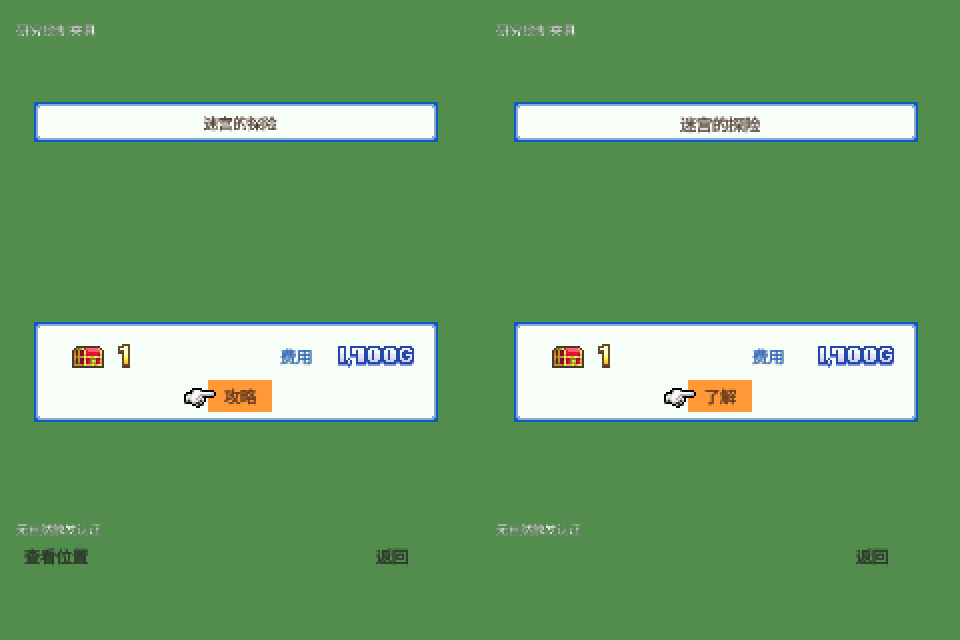
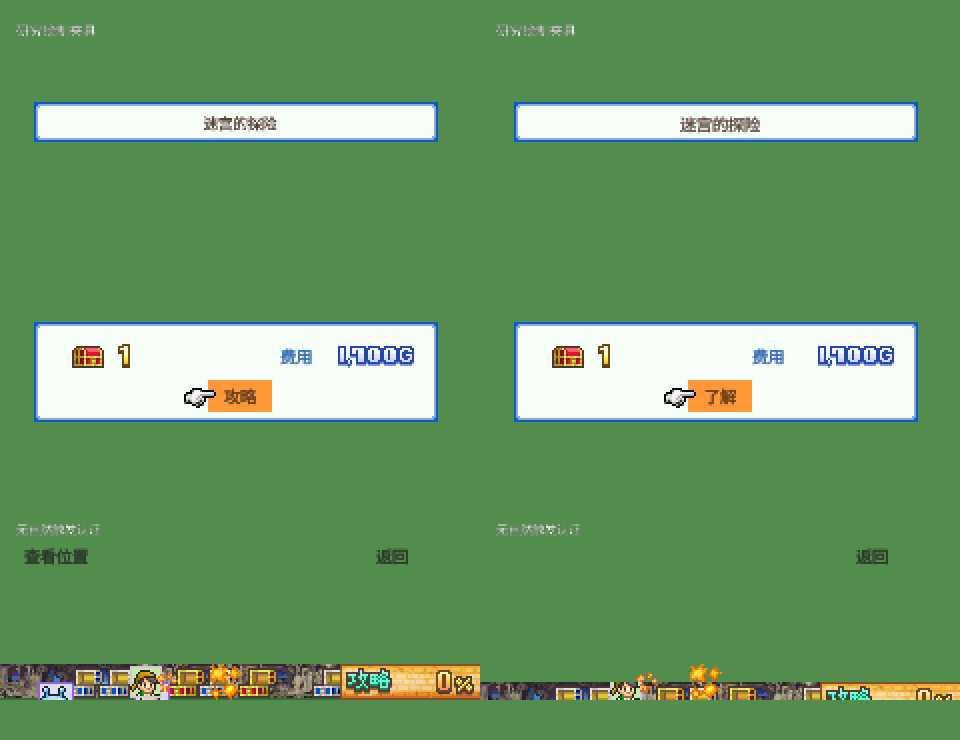
research: connect dungeon charge effects and footer examples

diff --git a/research/dungeon_village_1/prototype/src/startup_view.cpp b/research/dungeon_village_1/prototype/src/startup_view.cpp
@@ -37,6 +37,7 @@
 #include "dungeon_village_prototype/steam_main_menu_skin.hpp"
 #include "dungeon_village_prototype/steam_information_skin.hpp"
 #include "dungeon_village_prototype/steam_monster_skin.hpp"
+#include "dungeon_village_prototype/steam_dungeon_footer_skin.hpp"
 #include "dungeon_village_prototype/startup_world_tax.hpp"
 #include "dungeon_village_prototype/startup_world_village_activity.hpp"
 #include "dungeon_village_prototype/startup_world_visuals.hpp"
@@ -1363,6 +1364,63 @@ void draw_human_overview(const SteamHumanOverviewPlan &plan,SourceSprites &sprit
     else if(plan.soft_labels[0]==7)font.text("详细",18,272);
     if(plan.soft_labels[1]==2)font.text("返回",188,272);
 }
+// 探索底栏独立消费普通clip栈与临时头像ImageClip；后者结束时恢复外层，
+// 只模拟本计划正常未翻转图元，不认证原后端共享ImageClip/GPU越界行为。
+void draw_dungeon_footer(const SteamDungeonFooterPlan &plan,SourceSprites &sprites,Vector2 origin) {
+    std::vector<std::array<int,4>> clips;
+    const auto intersect=[](std::array<int,4> a,std::array<int,4> b) {
+        const int x=std::max(a[0],b[0]),y=std::max(a[1],b[1]);
+        return std::array<int,4>{x,y,std::max(0,std::min(a[0]+a[2],b[0]+b[2])-x),
+            std::max(0,std::min(a[1]+a[3],b[1]+b[3])-y)};
+    };
+    const auto apply=[&](std::optional<std::array<int,4>> image_clip={}) {
+        EndScissorMode();
+        auto r=image_clip;
+        if(!clips.empty())r=r?intersect(clips.back(),*r):clips.back();
+        if(r)BeginScissorMode(int(origin.x)+(*r)[0],int(origin.y)+(*r)[1],(*r)[2],(*r)[3]);
+    };
+    for(const auto &op:plan.operations)std::visit([&](const auto &v) {
+        using T=std::decay_t<decltype(v)>;
+        if constexpr(std::is_same_v<T,SteamHumanClip>) {
+            if(v.kind==SteamHumanClipKind::push_intersect)
+                clips.push_back(clips.empty()?v.rectangle:intersect(clips.back(),v.rectangle));
+            else {
+                if(clips.empty())throw std::runtime_error("探索底栏裁剪下溢");
+                clips.pop_back();
+            }
+            apply();
+        } else if constexpr(std::is_same_v<T,StartupSkinDraw>) {
+            const auto resource=steam_dungeon_footer_resource(v.image);
+            if(v.package!=StartupSkinPackage::common||!resource||resource->sprite!=v.sprite)
+                throw std::runtime_error("探索底栏素材身份拒绝");
+            if(v.image==97&&v.sprite==27) {
+                // 原宝箱显式替图97；SEB记录自身仍引用6，不能以同号身份检查丢掉它。
+                sprites.draw("treasure00.seb",v.frame,{origin.x+v.offset[0],origin.y+v.offset[1]},
+                    WHITE,SourceSprites::Binding::common,1,97);
+            } else sprites.published_sprite(v.image,resource->published_image,resource->published_sprite,
+                v.offset,v.frame,v.sprite<0?std::optional<std::array<int,4>>{v.crop}:std::nullopt,origin);
+        } else if constexpr(std::is_same_v<T,StartupSkinRect>) {
+            const auto &r=v.rect;const Color color{static_cast<unsigned char>(v.rgb[0]),
+                static_cast<unsigned char>(v.rgb[1]),static_cast<unsigned char>(v.rgb[2]),255};
+            if(v.outline)DrawRectangleLines(int(origin.x)+r[0],int(origin.y)+r[1],r[2],r[3],color);
+            else DrawRectangle(int(origin.x)+r[0],int(origin.y)+r[1],r[2],r[3],color);
+        } else if constexpr(std::is_same_v<T,SteamHumanPortrait>) {
+            if(!v.image_clip||!v.clip||v.actor.weapon||v.actor.shadow)
+                throw std::runtime_error("探索头像正常裁图前提拒绝");
+            apply(v.clip);
+            sprites.actor(false,v.actor.body.sprite,v.actor.body.image,v.actor.body.frame,
+                {origin.x+v.position[0],origin.y+v.position[1]});
+            apply();
+        } else if constexpr(std::is_same_v<T,SteamMonsterBody>) {
+            sprites.actor(true,v.sprite,v.image,v.frame,{origin.x+v.position[0],origin.y+v.position[1]});
+        } else if constexpr(std::is_same_v<T,SteamFacilityNumber>) {
+            const auto digits=steam_facility_number_draws(v,8);
+            if(!digits)throw std::runtime_error("探索百分比数字拒绝");
+            for(const auto &digit:*digits)sprites.facility_image(digit,origin);
+        }
+    },op);
+    if(!clips.empty())throw std::runtime_error("探索底栏裁剪未释放");
+}
 // 两种设施演出共用有序执行器，保留裁剪栈；每个variant恰消费一次。
 template<class Plan> void draw_facility_ceremony(const Plan &plan,SourceSprites &sprites,const ChineseFont &font,
     Vector2 origin=human_overview_origin,bool include_soft_labels=true) {
@@ -1613,6 +1671,39 @@ std::optional<SteamMonsterSkinPlan> monster_notice_example(bool boss,const Chine
         state=std::move(*next.candidate);
     }
     return window_monster_notice_plan(state,page.id,font);
+}
+std::optional<SteamDungeonFooterPlan> dungeon_footer_example(bool entering) {
+    StartupSession initial;
+    for(int n=0;n<420;++n)if(initial.update()!=StartupError::none)return {};
+    StartupWorldRuntimeSession world(initial.state(),ref::WorldRandomStream::from_java_seed(1));
+    auto s=world.state();
+    const auto made=ref::prepare_world_task_creation(startup_world_runtime_factory(s),0);
+    if(!made.candidate||!made.candidate->created_task||
+       !write_startup_world_runtime_factory(s,made.candidate->state))return {};
+    s.active_task=*made.candidate->created_task;
+    const auto facility=s.tasks.at(*s.active_task).facility;
+    if(!facility||s.scene.world.world.ai.human_order.empty())return {};
+    auto &progress=s.dungeon_facilities.at(*facility);
+    // 明确的显示调用点：保留真实工厂初建g/h，仅指定挑战年龄及人物撤退姿态。
+    // 初建h=0时显示0%，不为示例伪造已开始探索或补一个演示分母。
+    for(auto &c:progress.challenges) {
+        c[2]=c[1]==1?1:3;c[3]=25;
+    }
+    s.scene.world.world.facilities.at(*facility).occupants=s.scene.world.world.ai.human_order;
+    for(const auto id:s.scene.world.world.ai.human_order) {
+        const auto a=s.dungeon_actors.find(id);if(a==s.dungeon_actors.end())return {};
+        a->second.percent=50;a->second.retreat_state=entering?1:0;a->second.retreat_updates=12;
+    }
+    s.scene.world.updates=entering?9:18;
+    s.scene.world.floating_notes={{3,90,231},{4,120,231}};
+    s.scripts.executing_page.reset();s.scripts.pages.front().lifecycle=3;
+    StartupPresentationRequest request;request.ordinal=1;request.mode=StartupPresentationMode::full_redraw;
+    const auto pages=startup_world_presentation_pages(s,request.mode);if(!pages)return {};
+    request.expected_pages=*pages;
+    const auto presented=prepare_startup_world_presentation(s,request);
+    if(!presented.candidate||!presented.plan)return {};
+    return steam_dungeon_footer_skin(*presented.candidate,s.scripts.pages.front().id,*presented.plan,
+        {0,0,240,240},0,false);
 }
 std::optional<SteamMonsterSkinPlan> monster_introduction_example(bool early,const ChineseFont &font) {
     StartupSession startup;StartupWorldRuntimeSession world(startup.state(),ref::WorldRandomStream{});
@@ -3033,6 +3124,7 @@ int run_startup_window(const std::filesystem::path &assets, const std::filesyste
     const bool magic_fixture=inspect_page.rfind("magic-pot-",0)==0;
     const bool roster_fixture=inspect_page=="task-roster"||inspect_page=="task-extra"||inspect_page=="task-extra-stats"||inspect_page=="task-departure"||inspect_page=="task-departing";
     const bool info_fixture=inspect_page=="task-map-info"||inspect_page=="task-info";
+    const bool footer_fixture=inspect_page=="dungeon-footer"||inspect_page=="dungeon-footer-entry";
     const bool result_fixture=inspect_page=="task-battle-result"||inspect_page=="task-reward-result";
     const bool victory_fixture=inspect_page=="task-victory"||inspect_page=="task-victory-reputation";
     const bool deadline_fixture=inspect_page=="task-deadline"||inspect_page=="task-deadline-battle"||inspect_page=="task-deadline-continue";
@@ -3058,7 +3150,7 @@ int run_startup_window(const std::filesystem::path &assets, const std::filesyste
         inspect_page=="commerce-shop-preview"||inspect_page=="commerce-plant-preview";
     const bool gift_claim_fixture=inspect_page=="gift-facility"||inspect_page=="gift-profession"||inspect_page=="gift-equipment"||inspect_page=="gift-item";
     const bool award_result_fixture=inspect_page=="award-giving"||inspect_page=="award-lift"||inspect_page=="award-celebration"||inspect_page=="award-reward";
-    const bool task_fixture=info_fixture||result_fixture||victory_fixture||deadline_fixture||roster_fixture||inspect_page=="task-selection"||inspect_page=="task-offer"||inspect_page=="task-recruitment";
+    const bool task_fixture=footer_fixture||info_fixture||result_fixture||victory_fixture||deadline_fixture||roster_fixture||inspect_page=="task-selection"||inspect_page=="task-offer"||inspect_page=="task-recruitment";
     const bool management_fixture=inspect_page.rfind("village-",0)==0||inspect_page.rfind("town-",0)==0;
     const bool reputation_fixture=inspect_page=="facility-reputation"||inspect_page=="facility-reputation-result";
     std::string reputation_glyphs;
@@ -3126,8 +3218,11 @@ int run_startup_window(const std::filesystem::path &assets, const std::filesyste
     }
     ChineseFont font(font_path,reputation_glyphs);
     if(magic_fixture||task_fixture||residence_fixture||award_fixture||tax_fixture||monster_fixture||monster_detail_fixture||monster_notice_fixture||effort_fixture||award_result_fixture||mastery_fixture||gift_claim_fixture||clear_fixture||new_game_fixture||config_fixture||commerce_fixture||commerce_result_fixture||commerce_facility_fixture||commerce_preview_fixture||facility_special_fixture||build_menu_fixture) {
-        std::variant<SteamMagicPotPlan,SteamTaskSelectionPlan,SteamTaskRosterPlan,SteamTaskResultPlan,SteamTaskVictoryPlan,SteamTaskDeadlinePlan,SteamHumanOverviewPlan,SteamTownProgressPlan,SteamNewGamePlan,SteamConfigSkinPlan,SteamCommerceSkinPlan,SteamFacilityDetailSkinPlan,SteamInformationSkinPlan,SteamMonsterSkinPlan,SteamBuildMenuSkinPlan> plan;
-        if(build_menu_fixture) {
+        std::variant<SteamMagicPotPlan,SteamTaskSelectionPlan,SteamTaskRosterPlan,SteamTaskResultPlan,SteamTaskVictoryPlan,SteamTaskDeadlinePlan,SteamHumanOverviewPlan,SteamTownProgressPlan,SteamNewGamePlan,SteamConfigSkinPlan,SteamCommerceSkinPlan,SteamFacilityDetailSkinPlan,SteamInformationSkinPlan,SteamMonsterSkinPlan,SteamBuildMenuSkinPlan,SteamDungeonFooterPlan> plan;
+        if(footer_fixture) {
+            const auto value=dungeon_footer_example(inspect_page=="dungeon-footer-entry");
+            if(!value)throw std::runtime_error("Dungeon footer example rejected");plan=*value;
+        } else if(build_menu_fixture) {
             const auto value=build_menu_example(inspect_page,font);
             if(!value)throw std::runtime_error("Build menu example rejected");plan=*value;
         } else if(monster_notice_fixture) {
@@ -3215,9 +3310,10 @@ int run_startup_window(const std::filesystem::path &assets, const std::filesyste
             font.text("研究绘制夹具",8,10,WHITE,10);std::visit([&](const auto &value){
                 if constexpr(std::is_same_v<std::decay_t<decltype(value)>,SteamFacilityDetailSkinPlan>)draw_facility_detail(value,sprites,font);
                 else if constexpr(std::is_same_v<std::decay_t<decltype(value)>,SteamInformationSkinPlan>)draw_tax_information(value,sprites,font);
+                else if constexpr(std::is_same_v<std::decay_t<decltype(value)>,SteamDungeonFooterPlan>)draw_dungeon_footer(value,sprites,human_overview_origin);
                 else draw_facility_ceremony(value,sprites,font,info_fixture?Vector2{0,0}:human_overview_origin);
             },plan);
-            font.text("无自然触发认证",8,(new_game_fixture||build_menu_fixture)?300:260,WHITE,9);EndTextureMode();BeginDrawing();ClearBackground(BLACK);
+            font.text("无自然触发认证",8,(new_game_fixture||build_menu_fixture||footer_fixture)?300:260,WHITE,9);EndTextureMode();BeginDrawing();ClearBackground(BLACK);
             DrawTexturePro(canvas.value.texture,{0,0,width,-height},{0,0,width*scale,height*scale},{0,0},0,WHITE);
             EndDrawing();++count;
             if(count==frames&&screenshot) {

diff --git a/research/dungeon_village_1/prototype/tests/startup_world_runtime_tasks_test.cpp b/research/dungeon_village_1/prototype/tests/startup_world_runtime_tasks_test.cpp
@@ -380,6 +380,70 @@ void crew_item_reward_writeback() {
               missing.catalog.at({0, 0}).inventory == before &&
               missing.item_rewards == s.item_rewards && missing.scene.random.draws() == draws,
           "crew callback missing item mirror rolls back reward, notices and random");
+
+    // 真实crew先让单人领队前进10：40→50%，对应原横坐标88；不是自然探索进度证据。
+    auto charge = s;
+    charge.active_task = task;
+    charge.dungeon_facilities.at(facility).extent = 100;
+    charge.dungeon_facilities.at(facility).updates = 25;
+    charge.dungeon_facilities.at(facility).challenges = {{0, 1, 0, 0, 0, 2}};
+    charge.dungeon_actors.at(actor_id).progress = 40;
+    charge.dungeon_actors.at(actor_id).endurance = 3;
+    charge.scene.world.floating_notes = {{7, 42, 231}};
+    const auto charge_before = persistence_detail::encode_state(charge);
+    const auto charged = prepare_startup_world_runtime_dungeon_crew(charge, facility);
+    check(charged && charged->scene.world.floating_notes ==
+                         std::vector<std::vector<int>>{{7, 42, 231}, {0, 88, 231}} &&
+              charged->dungeon_labels.size() == charge.dungeon_labels.size() + 1 &&
+              charged->dungeon_labels.back().kind == ref::DungeonCrewRequestKind::progress_label231 &&
+              charged->dungeon_labels.back().first == 88 &&
+              charged->dungeon_actors.at(actor_id).endurance == 2 &&
+              charged->dungeon_facilities.at(facility).challenges.front()[5] == 1 &&
+              charged->scene.random.draws() == draws &&
+              persistence_detail::encode_state(charge) == charge_before,
+          "actual crew writes age0 aW and one observation output after depletion, preserving old notes and random");
+    auto quiet = charge;
+    quiet.dungeon_facilities.at(facility).updates = 26;
+    const auto uncharged = prepare_startup_world_runtime_dungeon_crew(quiet, facility);
+    check(uncharged && uncharged->scene.world.floating_notes == quiet.scene.world.floating_notes &&
+              uncharged->dungeon_labels.size() == quiet.dungeon_labels.size(),
+          "non-depletion crew invocation neither replays old observation outputs nor appends aW");
+    auto outer = charge;
+    outer.dungeon_facilities.at(facility).updates = 24;
+    const auto through_facility = ref::prepare_owned_world_runtime_domain(
+        outer, {ref::WorldScheduleStage::facility, facility, {}}, {}, startup_world_runtime_adapter());
+    check(through_facility && through_facility->state.scene.world.floating_notes ==
+                                 std::vector<std::vector<int>>{{7, 42, 231}, {0, 88, 231}} &&
+              through_facility->state.dungeon_facilities.at(facility).updates == 25 &&
+              through_facility->state.dungeon_labels.size() == outer.dungeon_labels.size() + 1,
+          "actual outer facility callback preserves new aW through projection/writeback without aging it twice");
+
+    // 复用空人物新局隔离共同前段：旧年龄7先退休，新提示下一轮才从0推进至1。
+    auto schedule = test_support::world_fixture().scene.world;
+    schedule.floating_notes = charged->scene.world.floating_notes;
+    const auto keep = [](const ref::WorldScheduleState &current, const ref::WorldScheduleCall &,
+                         const ref::CombatInfluenceCandidate &) -> std::optional<ref::WorldScheduleStep> {
+        return ref::WorldScheduleStep{current};
+    };
+    for (int age = 1; age <= 8; ++age) {
+        const auto advanced = ref::prepare_world_schedule(schedule, {}, keep);
+        check(advanced.candidate.has_value(), "actual shared prefix admits the isolated effect-age fixture");
+        schedule = advanced.candidate->state;
+        check(schedule.floating_notes == (age < 8
+                  ? std::vector<std::vector<int>>{{age, 88, 231}}
+                  : std::vector<std::vector<int>>{}),
+              "shared prefix advances source231 once per admitted update and retires at8");
+    }
+
+    // 反向挑战次序先产231，再让真实道具奖励拒绝非法累计数；整个Owner候选必须丢弃。
+    auto late = charge;
+    late.dungeon_facilities.at(facility).challenges.insert(
+        late.dungeon_facilities.at(facility).challenges.begin(), {0, 0, 0, 0, 0, 0});
+    late.item_rewards = std::numeric_limits<int>::max();
+    const auto late_before = persistence_detail::encode_state(late);
+    check(!prepare_startup_world_runtime_dungeon_crew(late, facility) &&
+              persistence_detail::encode_state(late) == late_before,
+          "late invalid reward count rolls back prior aW, observation output, endurance, challenge and random together");
 }
 void encounter() {
     StartupSession initial;

diff --git a/research/dungeon_village_1/prototype/src/startup_world_runtime_tasks.cpp b/research/dungeon_village_1/prototype/src/startup_world_runtime_tasks.cpp
@@ -299,8 +299,11 @@ std::optional<State> prepare_startup_world_runtime_dungeon_crew(const State &sta
             const ref::DungeonWorldRequest &request) -> std::optional<ref::DungeonWorldState> {
             if (!write(current))
                 return {};
-            if (request.source.kind == ref::DungeonCrewRequestKind::progress_label231)
+            if (request.source.kind == ref::DungeonCrewRequestKind::progress_label231) {
+                // 原共同前段已过：设施AI减耐力后追加aW，本轮年龄保持0。
+                next.scene.world.floating_notes.push_back({0, request.source.first, 231});
                 next.dungeon_labels.push_back(request.source);
+            }
             for (const auto &r : request.catalog_requests) {
                 if (r.kind == ref::ObjectCommitRequestKind::event) {
                     const auto executed = ref::prepare_world_script(

diff --git a/research/dungeon_village_1/prototype/src/main.cpp b/research/dungeon_village_1/prototype/src/main.cpp
@@ -170,6 +170,7 @@ Options parse_options(int argc, char **argv) {
           options.inspect_page != "monster-introduction" && options.inspect_page != "monster-introduction-early" &&
           options.inspect_page != "monster-detail" && options.inspect_page != "monster-detail-grown" &&
           options.inspect_page != "monster-boss" && options.inspect_page != "monster-outbreak" &&
+          options.inspect_page != "dungeon-footer" && options.inspect_page != "dungeon-footer-entry" &&
           options.inspect_page != "residence-completed" && options.inspect_page != "residence-reward" &&
           options.inspect_page != "task-deadline" && options.inspect_page != "task-deadline-battle" && options.inspect_page != "task-deadline-continue" &&
           options.inspect_page != "task-roster" && options.inspect_page != "task-extra" && options.inspect_page != "task-extra-stats" &&

diff --git a/research/dungeon_village_1/prototype/include/dungeon_village_prototype/startup_world_runtime.hpp b/research/dungeon_village_1/prototype/include/dungeon_village_prototype/startup_world_runtime.hpp
@@ -136,7 +136,7 @@ struct StartupWorldRuntimeState {
     std::map<std::uint64_t, ref::WorldMapNeighbourCache> neighbourhood_details;
     std::map<std::uint64_t, ref::WorldExplorationSummary> exploration_summaries;
     std::vector<ref::WorldExplorationGroundDisplay> exploration_displays;
-    std::vector<ref::DungeonCrewRequest> dungeon_labels; // 231的真实x参数/actor待表现消费。
+    std::vector<ref::DungeonCrewRequest> dungeon_labels; // 已应用到aW的231观察输出；不得再次追加效果。
     std::vector<ref::DungeonFinishSurface> surface;
     std::vector<std::array<bool, 2>> road_patches;
     // scripts不持久finance、pending_completion、I、human_order或scene计数；读写时投影。

diff --git a/research/dungeon_village_1/VERIFICATION.md b/research/dungeon_village_1/VERIFICATION.md
@@ -2,11 +2,13 @@
 
 ## Steam探索底栏冻结计划与Owner桥 2026-10-16
 
-接`b1f2403`，新增实际探索底栏职责的[只读模块](prototype/include/dungeon_village_prototype/steam_dungeon_footer_skin.hpp)，显式登记现application目标，扩现任务皮肤套件；没有新增测试target、Owner字段或存档身份。完整几何、两遍挑战／跨条目dy、人物内clip／ImageClip、独立aW及根资源路径见[合同](ui/DUNGEON_RENDER.md#steam底栏维护消费者与资源边界)。现cnt_dungeonBar／g/h／占用者／探索状态和保留根均由既有Owner读取，随机只消费同次表现plan；缺失、重复、错绑定、错页、退休和不可能抽数明确拒绝，不在查询里清理或重抽。
+接`b1f2403`，经`3db316f`完成实际探索底栏职责的[只读模块](prototype/include/dungeon_village_prototype/steam_dungeon_footer_skin.hpp)，显式登记现application目标，扩现任务皮肤套件；随后补aW同事务生产、外层设施回写及条件窗口。没有新增测试target、Owner字段或存档身份。完整几何、两遍挑战／跨条目dy、人物内clip／ImageClip及根资源见[合同](ui/DUNGEON_RENDER.md#steam底栏维护消费者与资源边界)。现cnt_dungeonBar／g/h／占用者／探索状态和保留根均由既有Owner读取，随机只消费同次表现plan；缺失、重复、错绑定、错页、退休和不可能抽数明确拒绝，不在查询里清理或重抽。
 
-Windows单Release动态构建通过；现visuals／runtime_tasks最终 **2/2通过1.83秒**，覆盖独立几何oracle、层序／两次Pop、平铺末片、保留人物重复引用、g/h非缓存、随机交接、输入只读、坏载荷及真实PNG／SEB映射；既有Owner随机、清理与回滚断言保留。C++17稳定ID仅定义相等，编译时修正误用不等运算后完成复验；未构建他人在途持久化套件或跑世界长测。
+Windows单Release动态构建通过；冻结计划首批visuals／runtime_tasks **2/2通过1.83秒**，补生产／窗口后最终visuals **1/1通过1.62秒**，修正新夹具漏计领队前进10后定向复验runtime_tasks **1/1通过0.23秒**。覆盖独立几何oracle、层序／两次Pop、平铺末片、保留人物重复引用、g/h非缓存、随机交接、真实PNG／SEB，以及实际crew与外层设施回写、age0→7／8退休、非触发轮和后续奖励失败整份回滚；既有断言保留。未构建他人在途持久化套件或跑世界长测。
 
-资源复核纠正“根素材缺失”的初判：现steam-common三文件就是Steam root原字节；7张common PNG、4个SEB及35组怪物脸图／SEB均可复用，未新增资源。语言变体／原Draw准入／GPU越界行为仍未知；自然aW生产接线及研究窗口尚未接，不以纯计划认证动态或完整皮肤。Release1379文件／145051383字节，assets863文件／9488214字节；新输出按值短期返回，向量预算4096，无积累队列或世界引用，合法历史仍不称永久有界。结果合现合同／索引，无新报告、audit、指纹或临时产物；构建／测试及子任务结束，白名单本地提交，保留他人修改、不推送。
+资源复核纠正“根素材缺失”的初判：现steam-common三文件就是Steam root原字节；7张common PNG、4个SEB及35组怪物脸图／SEB均可复用，未新增素材。`dungeon-footer`／`dungeon-footer-entry`最终各8帧退出、世界更新0；真实工厂／首访人物加明确姿态条件，不认证自然开始、付款或攻略。现[任务图例](ui/examples/steam-task-information.png)扩为960×740／28388字节，上方两图逐像素保留，下方两份原尺寸裁片与最终EXE截图逐像素一致，实际查看通过。正常世界窗口自动表现、语言变体／原Draw准入／GPU越界仍未齐。
+
+Steam推进火花生产与共同前段退休已独立定位，复用既有请求x并在同私有候选追加aW；观察输出`dungeon_labels`仍保留，不补放旧记录，也不称历史永久有界。Release1379文件／145408140字节，assets863文件／9488214字节；纯计划按值短期返回、向量预算4096，无世界根或等待绘制队列。结果合现合同／索引／例图，无新报告、audit或指纹；两张临时窗口图45826字节及目录已清理，构建／测试／窗口与子任务结束，白名单本地提交，保留他人修改、不推送。
 
 ## BOSS与群体通知正式皮肤 2026-10-16
 

diff --git a/research/dungeon_village_1/ui/examples/README.md b/research/dungeon_village_1/ui/examples/README.md
@@ -50,7 +50,7 @@
 
 [胜利两段](steam-task-victory.png)与[期限探索／继续／战斗](steam-task-deadline.png)为五张480×640窗口原尺寸拼接，共72132字节（胜利边框按原DrawRect含端点更新）。消费30／33正式只读计划及现素材；人物0–2的职业装备取新局，XP123／人气20、主50／副18、费用100／攻略35%及三只monster0是明确绘制条件，未任务结算或续费。33现已接严格Owner桥／按钮持久化，此图仍只证明条件绘制；中文沿固定汉化APK、menuRT日文原图、Noto字体和绿色背景为标注的适配。五个无`--world`有界入口`task-victory`、`task-victory-reputation`、`task-deadline`、`task-deadline-continue`、`task-deadline-battle`各8帧，均0世界更新。原窗口动态、完整字体和自然取得不由例图认证；详见[后继合同](../PAGES.md#steam任务成果与期限的后继定位)。
 
-[战绩31／奖励32](steam-task-results.png)与[地图候选／raw29](steam-task-information.png)共59077字节，四张480×640有界研究窗口原尺寸并排。成果示例为六人物／六奖励及first1的明确条件，人物初始H/I=0、图标与价格取原定义；没有战斗、奖励领取或自然成果认证。地图信息由新局原工厂任务经真实22追踪→5→4短移动形成Owner桥；raw29只用纯DTO，不伪造尚未接的菜单入口。均0世界更新、无自然触发认证；Noto、绿色背景和研究标记是适配。`--inspect-page task-battle-result/task-reward-result/task-map-info/task-info --frames 8`分别传完整单名称且不加`--world`；[任务合同](../PAGES.md#steam地图候选信息与raw29不同入口)明确两助手、费用／箭头和坐标差异。
+[战绩31／奖励32](steam-task-results.png)与[地图候选／raw29及探索底栏](steam-task-information.png)共74320字节。成果示例为六人物／六奖励及first1的明确条件，人物初始H/I=0、图标与价格取原定义；没有战斗、奖励领取或自然成果认证。地图信息由新局原工厂任务经真实22追踪→5→4短移动形成Owner桥；raw29只用纯DTO，不伪造尚未接的菜单入口。原四张480×640窗口内容保持；任务信息图扩为960×740，原上方两图逐像素不变，下方并排追加`dungeon-footer`／`dungeon-footer-entry`最终480×640窗口的 `(0,500,480,100)` 原尺寸裁片，展示原root标签、两遍挑战、头像／撤退、aW火花、滑入及0%初态。首访人物／任务由实际消费者创建，挑战年龄、人物50%／撤退12、aW两行及p18／9是显示条件，g/h保留初建值，不伪造探索开始／付款。六个入口均不加`--world`、各8帧、世界更新0；两个底栏仅一次显式Owner表现请求，重复显示不重抽随机。Noto、绿色背景及裁剪后端为研究适配，原窗口动态未认证；[任务合同](../PAGES.md#steam地图候选信息与raw29不同入口)和[底栏合同](../DUNGEON_RENDER.md#steam底栏维护消费者与资源边界)分别记录边界。
 
 [名单／追加两页](steam-task-roster-extra.png)与[出发前后](steam-task-departure.png)由五个480×640研究窗口原尺寸并排，共79859字节。消费25–28正式纯计划，人物0／1的职业、等级、四战斗值及200G候选费用读取真实新局定义；两人名单、评价3、主24／副10和“已参加”身份是明确显示条件，未创建参与任务、付款或自然出发。五个无`--world`的有界入口为`task-roster`、`task-extra`、`task-extra-stats`、`task-departure`、`task-departing`，均世界更新0；原字体、完整共享scratch、OS动态及新Owner持久接线不由例图认证。[合同](../PAGES.md#steam参加名单追加与出发25–28)解释动作4、两种列表返回及两套Touch差异。
 

diff --git a/research/dungeon_village_1/prototype/README.md b/research/dungeon_village_1/prototype/README.md
@@ -15,7 +15,7 @@
 | `startup_world_commerce`、`steam_commerce_skin` | 83主页三入口同轮事务、原序只读皮肤及真实NEW查询；85三行图块目录／整轮输入、86交易反馈已接，保留独立93领取和86自动关闭；84金额及皮肤另列；[商会合同](../rules/COMMERCE.md#steam-commerce-top) |
 | `startup_world_menu`／`information`／`manual`／`save`、`steam_information_skin` | 菜单、34–39信息、90税收、13说明及14保存；[信息合同](../ui/INFORMATION_MENU.md)、[菜单](../ui/PAGES.md) |
 | `startup_world_runtime_pages`、`steam_monster_skin` | 89介绍、92共享详情及99／100任务通知：严格主钟／初始化、有序正常皮肤／Owner只读桥与研究窗口；99含跳跃／光环／烟效，100读既有八行演出，不保留实体根或重复初始化；[共享显示前提](../rules/STEAM_MONSTER_PROGRESSION.md)、[后期通知](../ui/PAGES.md#steam-task-notices) |
-| `steam_dungeon_footer_skin`、`startup_world_presentation` | 探索底栏按同次Owner候选／冻结抖动生成有序只读计划，绑定现Steam根素材；不在Draw抽随机或补缺实例，aW生产接线、窗口与语言变体仍未交；[底栏合同](../ui/DUNGEON_RENDER.md#steam底栏维护消费者与资源边界) |
+| `steam_dungeon_footer_skin`、`startup_world_presentation` | 探索底栏按同次Owner候选／冻结抖动生成有序只读计划，绑定现Steam根素材；aW同事务生产／共同前段退休及两个条件研究窗口已接，语言变体／正常窗口自动表现接线另验；[底栏合同](../ui/DUNGEON_RENDER.md#steam底栏维护消费者与资源边界) |
 | `startup_application`、应用存储／标题／回放模块 | [应用](STARTUP_APPLICATION.md)、[存储事务](APPLICATION_STORAGE.md)、[标题](TITLE_MENU.md)、[完整回放](APPLICATION_REPLAY.md) |
 | `steam_startup_skin` | Steam共用窗框、标题菜单／选档局部及背景→upper→演员插入点→草／Logo的有序前段；整场组合仍待接；[标题绘制](../ui/STEAM_TITLE_DRAW.md) |
 | `steam_platform_button_skin` | 平台绑定／键盘／语言按钮及NEW原序请求、控制器后备及glyph矩阵几何；语言普通结果输出安装／成功条件共享回调／Pop次序，不调用Steam、安装包或发现设备；[按钮及glyph](../ui/STEAM_FONT_CONSUMER.md#内嵌按钮提示)、[语言结果](../ui/STEAM_LANGUAGE_INSTALL.md#语言页的选择结果与标题回调) |

diff --git a/research/dungeon_village_1/stages/COMPREHENSIVE_RESEARCH.md b/research/dungeon_village_1/stages/COMPREHENSIVE_RESEARCH.md
@@ -34,7 +34,7 @@
 3. **保存生命周期与产品反馈。** 正向预留分派、日历轮内保存、普通暂停true／退出及恢复false账号旁支已核；账号可能刷新PlayerPrefs，不等于业务存档。余项集中[原存档合同](../rules/PERSISTENCE.md)：使能／配置运行期写者、SDK／OS和其它后台服务边界、既有预留在停止前的实际消费机会。不能保证退出有最后一次保存，原轮内I/O也未由raw14或轮末快照替代。维护文件接线须独立确认具体事务方案；产品有源身份／操作前缀／最小复现的反馈优先处理。
 4. **必要原窗口补证。** 提示词保持忽略work，由用户转交反馈；当前魔法壶需要现成主页／目录，计分需要现成自然前提。窗口反馈只更新实际观察层，静态与维护分支继续并行。已确认跳过的短姓名取消链、HTML浏览器门槛及长列表物理输入不重新强制派发。
 
-探索底栏已有Steam完整直接绘制、正式冻结计划／Owner只读桥、根资源绑定及APK不可变背景行桥；后续接aW实际生产、研究窗口和必要语言素材，沿现显式Owner表现请求消费随机／缺绑定清理。背景ClampMax返回未消费的Steam差异、图集／GPU越界源矩形及原Draw准入保留，不能按APK公式或60FPS补猜。
+探索底栏已有Steam完整直接绘制、正式冻结计划／Owner只读桥、根资源绑定、aW同事务生产／退休及两个条件研究窗口；后续接正常窗口显式表现消费和必要语言素材，不由Draw重新抽签／清理缺绑定。背景ClampMax返回未消费的Steam差异、图集／GPU越界源矩形及原Draw准入保留，不能按APK公式或60FPS补猜。
 
 快照、性能采样和缓存管理服务于以上任务；已有工具足够时直接推进消费者。研究不新增经营长跑Driver或重建多年自然前缀，按[测试分工](../../WORKFLOW.md#研究与产品的测试分工)只做短功能／逻辑及必要回滚／恢复，产品验证完整经营。
 

diff --git a/research/dungeon_village_1/ui/STEAM_UI_COVERAGE.md b/research/dungeon_village_1/ui/STEAM_UI_COVERAGE.md
@@ -145,7 +145,7 @@ DLL与metadata身份沿用[Steam交互合同](STEAM_INTERACTIONS.md#来源与证
 GameForm 0 MAIN、1 BUILD有局部窗口证据；6 CHASE_CHARA、7 CHASE_TENANT另有[具名追踪／确认与镜头静态合同及维护接线](INFORMATION_MENU.md)，不再仅有声明，但原窗口追踪全链未认证。2 USER、3 BACK、4 DUNGEON_SELECT、5 DUNGEON_MOVE在此仍仅登记声明。
 S066–S068自然对话不按旧标签补写具名详情，见[非空p实验](../work/window-restore-observation/20261007-131546-nonempty-p-reload/RESULT.md)。
 
-探索底栏的[Steam纯计划／Owner只读桥](DUNGEON_RENDER.md#steam底栏维护消费者与资源边界)已交，包含两遍挑战、跨条目dy、冻结抖动、头像、特效与右段，根资源复用现出版。自然aW生产接线、研究窗口、语言变体及原Draw准入／GPU越界像素另列，不能由静态合同或条件短测认证完整原动态。
+探索底栏的[Steam纯计划／Owner只读桥](DUNGEON_RENDER.md#steam底栏维护消费者与资源边界)已交，包含两遍挑战、跨条目dy、冻结抖动、头像、特效与右段，根资源复用现出版。aW同事务生产／退休及两个条件研究窗口已接；正常窗口自动表现接线、语言变体及原Draw准入／GPU越界像素另列，不能由静态合同或条件短测认证完整原动态。
 
 ## 26组件与14事件分母
 

diff --git a/research/dungeon_village_1/rules/ai/DUNGEONS.md b/research/dungeon_village_1/rules/ai/DUNGEONS.md
@@ -101,6 +101,7 @@ Q是原日历计数常量，不是帧率/秒数。阶段1重置g，阶段2只重
 战斗先检查扣后强度≤0：转1/年龄0，但**不跳出成员扫描**，后续仍可扣Y和强度成负。
 未击败时，Y>0或本轮未扣减就V回W；否则Z1/aa0等待撤退。X不随V回退立即重算。
 231只是进度显示，绝非经验或伤害。其参数来自X的0..100→−8..153整数映射后加16。
+Steam生产者及年龄0→7／8退休已独立交叉，维护在同一Owner事务写入既有aW；`dungeon_labels`保留为已应用效果的观察输出，不可重放添效果，见[表现合同](../../ui/DUNGEON_RENDER.md#攻略推进特效的生产与退休)。
 
 g≥h先阶段2/设施计数0，再按当前o顺序对每个引用清位1、c0、排等待`索引*5`和活动0。
 重复人物可被后一个引用再次覆盖队列。此时仍不清o，不把活动0同步执行掉。
